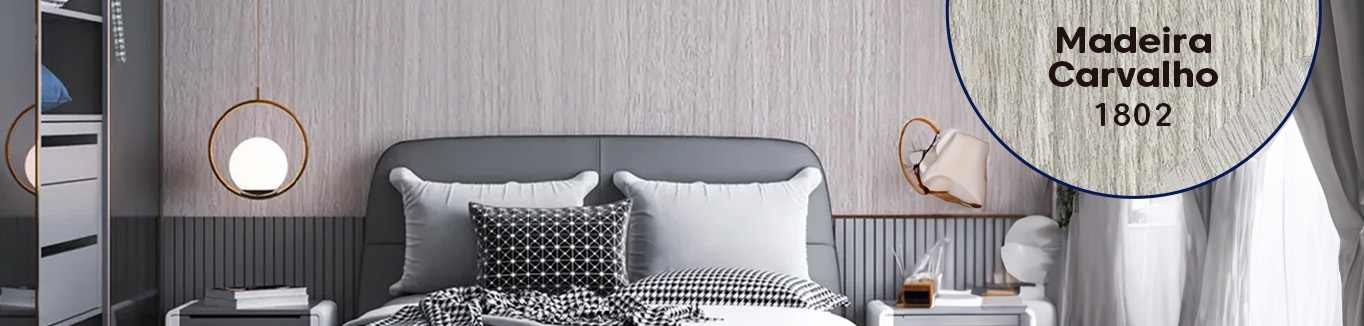
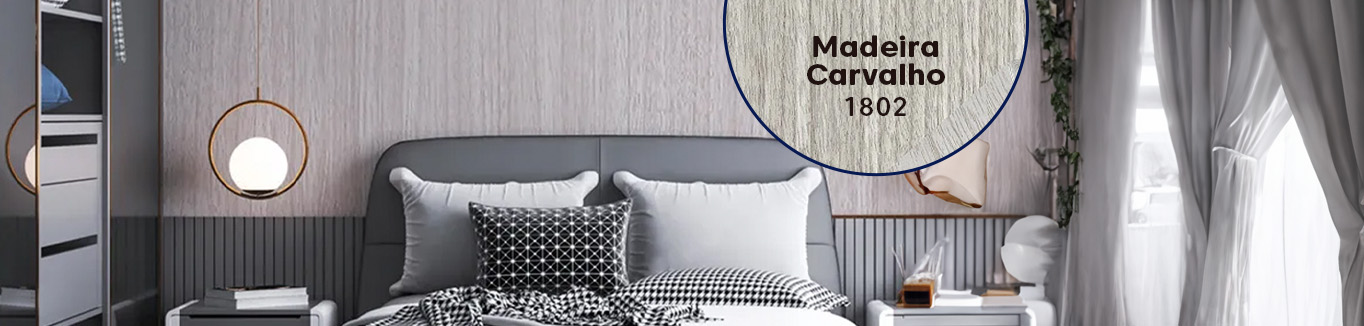
Ajuste do carousel e da navbar

Changed region(s): [[0.5235, 0.0, 0.9853, 0.6135]]

diff --git a/index.html b/index.html
@@ -289,7 +289,7 @@
 
       .carousel-image {
         width: 100%; /* A imagem preencherá a largura do contêiner */
-        height: 150px; /* Altura fixa ou ajuste conforme necessário */
+        height: 190px; /* Altura fixa ou ajuste conforme necessário */
         object-fit: cover ; /* Corta as bordas da imagem e mantém o aspecto */
         overflow: hidden; /* Esconde o excesso da imagem fora das bordas */
       }

diff --git a/css/styles.css b/css/styles.css
@@ -11302,12 +11302,14 @@ form {
   padding: 1vw; 
   background-image: url(/assets/assets_img/banner-site.jpg);
   background-repeat: round;
-  text-align: center;
 }
 @media (max-width: 417px) {
   .px-5{
     padding-right: 0rem !important;
     padding-left: 0rem !important;
+  }
+  .fullscreen-image {
+    text-align: center;
   }
 }
 .Flexbox-Between {

diff --git a/item.html b/item.html
@@ -17,7 +17,7 @@
     <body>
         
         <!-- Navigation-->
-        <nav class="fullscreen-image text-center"><!-- navbar-custom-top-header -->
+        <nav class="fullscreen-image"><!-- navbar-custom-top-header -->
             <div class="container px-6">
                 <div class="row">
                     <div class="col">
